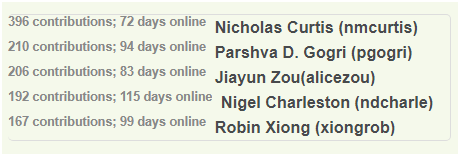
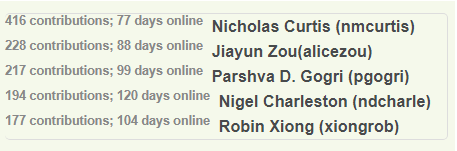
update to eecs 482 page.

diff --git a/eecs482.html b/eecs482.html
@@ -53,9 +53,9 @@
                     <div class="inner">
                         <h1>EECS 482 Fall 2020 Piazza Contributions</h1>
                         <img src="images/linux-2025130_640.png" alt="Linux Mascot" style="width:20%;height:auto;margin-left:auto;margin-right:auto;display:block;">
-                        <p>To demonstrate my understanding of the concepts and projects of EECS 482, I joined its Fall 2020 piazza to help the course staff with answering student questions. <b>As of 12/4/2020, I made over 192 contributions.
-                            Over 35 of my answers have been endorsed by a course instructor. 6 of my followup comments have been endorsed by a course instructor.</b> For sake of privacy, I remained anonymous; answers and counts can be verified by current instructors on <a href="https://piazza.com/class/kdcju7ogpl21lq">Piazza's statistics page</a>:
-                            <img src="images/student_contributions.PNG" alt="Proof of contributions" style="width:100%;height:auto;">
+                        <p>To demonstrate my understanding of the concepts and projects of EECS 482, I joined its Fall 2020 piazza to help the course staff with answering student questions. <b>As of 12/11/2020, I made over 194 contributions.
+                            Over 32 of my answers have been endorsed by a course instructor. 6 of my followup comments have been endorsed by a course instructor.</b> For sake of privacy, I remained anonymous; answers and counts can be verified by current instructors on <a href="https://piazza.com/class/kdcju7ogpl21lq">Piazza's statistics page</a>:
+                            <img src="images/student_contributions.PNG" alt="Proof of contributions" style="width:88%;height:auto;">
                         </p>
                         <h2>Instructor Endorsed Answers</h2>
                         <ol>
@@ -71,9 +71,6 @@
                             <li><a href="https://piazza.com/class/kdcju7ogpl21lq?cid=864" target="_blank"> @864  Thread Seg Faults (P2)</a> </li><b>Endorsed by Peter Chen</b>
                             <li><a href="https://piazza.com/class/kdcju7ogpl21lq?cid=201" target="_blank"> @201  Is ++ atomic? (P1)</a> </li><b>Endorsed by Peter Chen</b>
                             <li><a href="https://piazza.com/class/kdcju7ogpl21lq?cid=2407" target="_blank"> @2407 How to Use RAII for Hand-over-hand Locking (P4)</a> </li><b>Endorsed by Brian Noble</b>
-                            <li><a href="https://piazza.com/class/kdcju7ogpl21lq?cid=203" target="_blank"> @203  Let GDB memorize "handle SIGUSR1 nostop noprint" (P1)</a> </li><b>Endorsed by Yilin Yang</b>
-                            <li><a href="https://piazza.com/class/kdcju7ogpl21lq?cid=752" target="_blank"> @752  Is the new operator safe for multithreaded code? (P2)</a> </li><b>Endorsed by Yilin Yang</b>
-                            <li><a href="https://piazza.com/class/kdcju7ogpl21lq?cid=1057" target="_blank">@1057 Lectures necessary for the Midterm (Exam)</a> </li><b>Endorsed by Yilin Yang</b>
                             <li><a href="https://piazza.com/class/kdcju7ogpl21lq?cid=1064" target="_blank">@1064 Semaphore Implementation (Exam)</a> </li><b>Endorsed by Nathan Brown</b>
                             <li><a href="https://piazza.com/class/kdcju7ogpl21lq?cid=369" target="_blank"> @369  Returning before calling cpu::boot (P1)</a> </li><b>Endorsed by Nathan Brown</b>
                             <li><a href="https://piazza.com/class/kdcju7ogpl21lq?cid=368" target="_blank"> @368  Adivce for resolving incorrect disk scheduler output (P1)</a> </li><b>Endorsed by Nathan Brown</b>
@@ -94,7 +91,6 @@
                             <li><a href="https://piazza.com/class/kdcju7ogpl21lq?cid=2408" target="_blank">@2408 Is a non-zero session number in FS_SESSION valid? (P4)</a> </li><b>Endorsed by Joseph Nwabueze</b>
                             <li><a href="https://piazza.com/class/kdcju7ogpl21lq?cid=167" target="_blank"> @167  max disk queue input (P1)</a> </li><b>Endorsed by Joseph Nwabueze</b>
                             <li><a href="https://piazza.com/class/kdcju7ogpl21lq?cid=2456" target="_blank">@2456  size of encrypted message (P4)</a> </li><b>Endorsed by Joseph Nwabueze</b>
-
                         </ol>
                         <h2>Followup Comments Marked Good by Instructors</h2>
                         <ol>
@@ -105,6 +101,7 @@
                             <li><a href="https://piazza.com/class/kdcju7ogpl21lq?cid=2393_f1" target="_blank">@2393_f1 Explained why the "recv" hangs (P4)</a></li> <b>Marked good comment by Austin Kiekintveld</b>
                             <li><a href="https://piazza.com/class/kdcju7ogpl21lq?cid=2417_f1" target="_blank">@2417_f1 Choosing a port for the file server.</a></li><b>Marked good comment by Austin Kiekintveld</b>
                         </ol>
+                        
                         <h2>Enhanced Student Answers</h2>
                         <p>I also made significant enhancements to the student answers to the following questions:</p>
                         <h3><a href="https://piazza.com/class/kdcju7ogpl21lq?cid=2022" target="_blank">@2022 Anyone else been feeling stressed lately</a></h3>
@@ -115,6 +112,33 @@
                         <p>
                             I made the following addition to the answer: 
                             <img src="images/186.PNG" alt="Proof of contributions" style="width:100%;height:auto;">
+                        </p>
+
+                        <h2>Endorsed Response Samples</h2>
+                        <p>Here are some samples of responses I made that were found helpful by both the staff and students: </p>
+                        <p>
+                            <h3><a href="https://piazza.com/class/kdcju7ogpl21lq?cid=2224" target="_blank">@2224 Careers related to OS development + future learning</a></h3>
+                            <img src="images/sample3.PNG" alt="Proof of contributions" style="width:100%;height:auto;">
+                        </p>
+                        <p>
+                            <h3><a href="https://piazza.com/class/kdcju7ogpl21lq?cid=1757" target="_blank">@1757 Real World Operating Systems?</a></h3>
+                            <img src="images/sample2.PNG" alt="Proof of contributions" style="width:100%;height:auto;">
+                        </p>
+                        <p>
+                            <h3><a href="https://piazza.com/class/kdcju7ogpl21lq?cid=201" target="_blank">@201 Is ++ atomic for p1?</a></h3>
+                            <img src="images/sample4.PNG" alt="Proof of contributions" style="width:100%;height:auto;">
+                        </p>
+                        <p>
+                            <h3><a href="https://piazza.com/class/kdcju7ogpl21lq?cid=671" target="_blank">@671 Calling cv.wait() on two different locks</a></h3>
+                            <img src="images/sample5.PNG" alt="Proof of contributions" style="width:100%;height:auto;">
+                        </p>
+                        <p>
+                            <h3><a href="https://piazza.com/class/kdcju7ogpl21lq?cid=752" target="_blank">@752 Is the new operator safe for multithreaded code?</a></h3>
+                            <img src="images/sample1.PNG" alt="Contributions" style="width:100%;height:auto;">
+                        </p>
+                        <p>
+                            <h3><a href="https://piazza.com/class/kdcju7ogpl21lq?cid=2718" target="_blank">@2718 FS_MAXFILENAME</a></h3>
+                            <img src="images/sample6.PNG" alt="Proof of contributions" style="width:100%;height:auto;">
                         </p>
                     </div>
                 </div>
